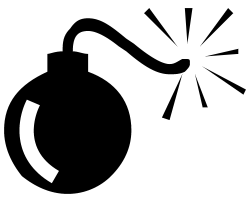
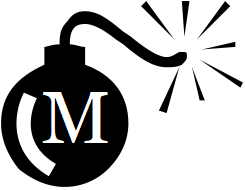
Update Title Page Images

diff --git a/index.html b/index.html
@@ -4,7 +4,7 @@
 <head>
     <meta charset="UTF-8" meta name="viewport" content="width=device-width, initial-scale=1">
     <title>My Portfolio Page</title>
-    <link rel="icon" type="image/png" href="assets/images/bomb icon.png">
+    <link rel="icon" type="image/png" href="assets/images/bombicon.jpg">
     <link rel="stylesheet" type="text/css" href="assets/css/style.css">
     <!-- <link rel="stylesheet" type="text/css" href="reset.css"> -->
 </head>

diff --git a/portfolio.html b/portfolio.html
@@ -4,7 +4,7 @@
 <head>
     <meta charset="UTF-8">
     <title>My Portfolio Page</title>
-    <link rel="icon" type="image/png" href="assets/images/bomb icon.png">
+    <link rel="icon" type="image/png" href="assets/images/bombicon.jpg">
     <link rel="stylesheet" type="text/css" href="assets/css/style.css">
     <!-- <link rel="stylesheet" type="text/css" href="reset.css"> -->
 </head>

diff --git a/contact.html b/contact.html
@@ -4,7 +4,7 @@
 <head>
     <meta charset="UTF-8">
     <title>My Portfolio Page</title>
-    <link rel="icon" type="image/png" href="assets/images/bomb icon.png">
+    <link rel="icon" type="image/png" href="assets/images/bombicon.jpg">
     <link rel="stylesheet" type="text/css" href="assets/css/style.css">
     <!-- <link rel="stylesheet" type="text/css" href="reset.css"> -->
 
